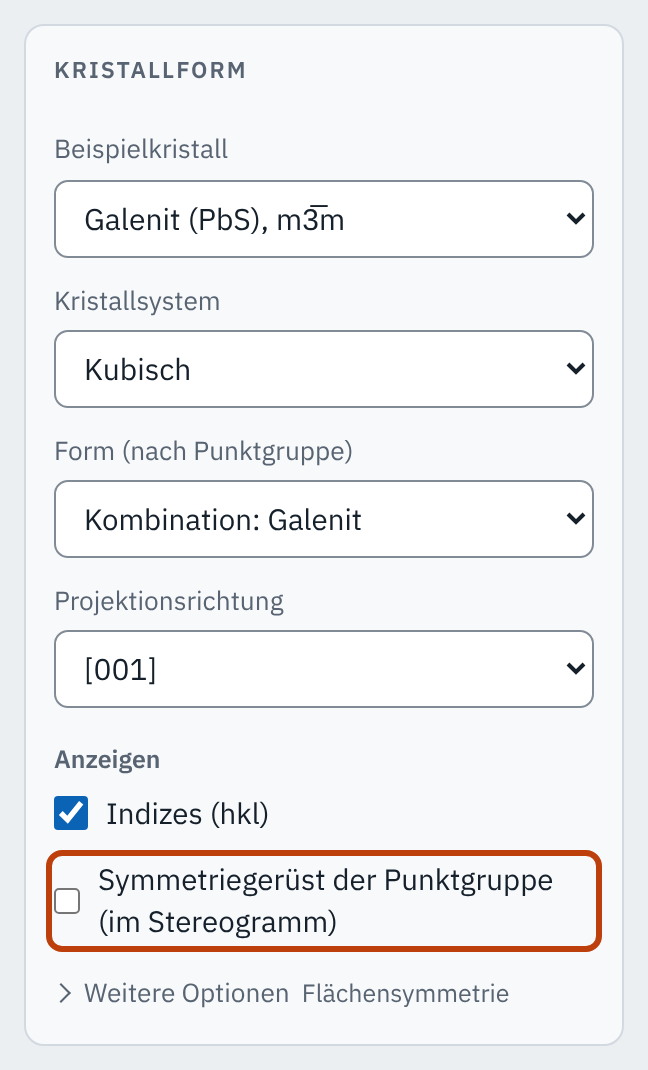
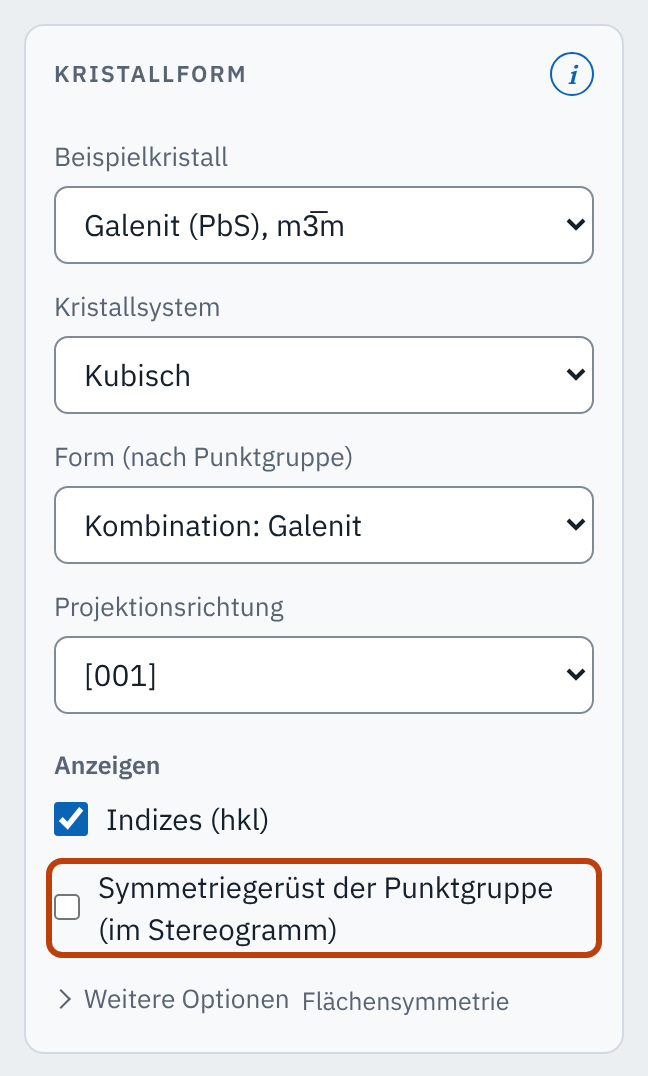
Gemeinsame Grundlage auf crystallography-common v0.20.0
ⓘ auf allen Geräten, nie allein umbrochen (crystallography-common#140);
Leitfaden 5.1 und 5.2 geschärft. Texte der ⓘ-Erklärungen und der
Karte „Erste Schritte“ für Maus und Touch, Bilder der Hilfeseite neu.

Claude-Session: https://claude.ai/code/session_01L8SY96VTcRYuEB7LDLyNSV

diff --git a/lib/common/js/help.js b/lib/common/js/help.js
@@ -1,9 +1,8 @@
-// Hilfen: Tooltips (Laptop: Maus oder Tastaturfokus) und ⓘ-Erklärungen je Abschnitt (Touch-Geräte).
+// Hilfen: Tooltips (Laptop: Maus oder Tastaturfokus) und ⓘ-Erklärungen je Abschnitt (alle Geräte, #140).
 // Die Texte liefert die App (initHelp); hier steht nur die Mechanik. Stile in css/app.css (.tip, .infobtn, .helpbox).
 // Das zuletzt benutzte Zeigegerät steht als `data-zeiger` (maus | touch) an <html>; danach richten sich die Texte für
-// Maus und Touch (.only-fine, .only-coarse). Ein Stift zählt als Touch (kein Tooltip, Texte „antippen“). Nach dem ersten
-// Tippen steht dort zudem `data-touch`, und das ⓘ bleibt sichtbar, auch wenn danach wieder die Maus benutzt wird; meldet
-// der Browser hover: none, ist es immer sichtbar (#114). pruefeTooltips() ist für die Tests der App.
+// Maus und Touch (.only-fine, .only-coarse), auch im ⓘ, und die Grösse des ⓘ (28 px mit der Maus, 40 px mit Touch). Ein Stift zählt als Touch (kein Tooltip,
+// Texte „antippen“). pruefeTooltips() ist für die Tests der App.
 
 import { esc } from './format.js';
 
@@ -194,6 +193,36 @@ function buildHelpBox(sec) {
 }
 
 /**
+ * Hängt das ⓘ an das letzte Wort eines Titels, in einem Element, das nicht umbricht (`.nobr`): Bricht der Titel um,
+ * steht das ⓘ mit dem letzten Wort in der neuen Zeile, nie allein (Bedingung Thomas, #140). Endet der Titel mit einem
+ * Element (z. B. einem Symbol), wird dieses als Ganzes mit dem ⓘ zusammengehalten; der Titel einer `summary` steht
+ * deshalb als Text darin, nicht ganz in einem Element (sonst bräche er nicht mehr um).
+ * @param {HTMLElement} titel
+ * @param {HTMLElement} btn
+ */
+function anheften(titel, btn) {
+  const nobr = document.createElement('span');
+  nobr.className = 'nobr';
+  let letzter = titel.lastChild;
+  // Leerraum und Kommentare am Ende überspringen
+  while (letzter && (letzter.nodeType === Node.COMMENT_NODE || (letzter.nodeType === Node.TEXT_NODE && !letzter.textContent?.trim()))) {
+    const davor = letzter.previousSibling;
+    letzter.remove();
+    letzter = davor;
+  }
+  if (letzter && letzter.nodeType === Node.TEXT_NODE) {
+    const text = /** @type {Text} */ (letzter);
+    const t = text.data.trimEnd();
+    const i = t.search(/\S+$/);
+    text.data = t.slice(0, i);
+    nobr.append(t.slice(i));
+    if (!text.data) text.remove();
+  } else if (letzter) nobr.append(letzter);
+  nobr.append(btn);
+  titel.append(nobr);
+}
+
+/**
  * Tooltips und ⓘ-Erklärungen einrichten.
  * tips: Tooltip-Text (HTML) je Element-ID; bei Eingabefeldern erscheint er an der ganzen Zeile (.check, .range, .field).
  * sections: je Abschnitt { heading: Selektor der Überschrift (h2 oder summary), intro?: Einleitungssatz, ids: [Element-IDs] }.
@@ -215,12 +244,10 @@ export function initHelp({ tips = {}, sections = [], labels = {} } = {}) {
   /** @param {PointerEvent} e */
   const geraet = (e) => {
     maus = e.pointerType === 'mouse';
-    // für CSS (.only-fine, .only-coarse, .infobtn): nur bei einem Wechsel schreiben
+    // für CSS (.only-fine, .only-coarse, Grösse des ⓘ): nur bei einem Wechsel schreiben
     const zeiger = maus ? 'maus' : 'touch';
     const d = document.documentElement.dataset;
     if (d.zeiger !== zeiger) d.zeiger = zeiger;
-    // ⓘ: ab dem ersten Tippen, damit es nicht mit jeder Mausbewegung verschwindet (und eine offene Erklärung mit ihm)
-    if (!maus && d.touch === undefined) d.touch = '';
   };
   document.addEventListener('pointerdown', (e) => { geraet(e); tastatur = false; }, true);
   document.addEventListener('keydown', () => { tastatur = true; }, true);
@@ -247,7 +274,7 @@ export function initHelp({ tips = {}, sections = [], labels = {} } = {}) {
   document.addEventListener('keydown', (e) => { if (e.key === 'Escape') hideTip(); });
   window.addEventListener('scroll', hideTip, true);
 
-  // Touch: ⓘ an den Abschnittsüberschriften klappt die Erklärungen des Abschnitts auf
+  // ⓘ an den Abschnittsüberschriften klappt die Erklärungen des Abschnitts auf (auf allen Geräten, #140)
   for (const sec of sections) {
     const h = document.querySelector(sec.heading);
     if (!h) continue;
@@ -256,6 +283,7 @@ export function initHelp({ tips = {}, sections = [], labels = {} } = {}) {
     btn.className = 'infobtn';
     btn.setAttribute('aria-expanded', 'false');
     btn.setAttribute('aria-label', 'Erklärungen zu diesem Abschnitt');
+    setTip(btn, 'Erklärungen zu diesem Abschnitt ein- und ausklappen.');
     btn.innerHTML = '<span aria-hidden="true">i</span>';
     /** @type {HTMLElement | null} */
     let box = null;
@@ -280,10 +308,15 @@ export function initHelp({ tips = {}, sections = [], labels = {} } = {}) {
       btn.setAttribute('aria-expanded', 'true');
     });
     if (h.tagName === 'SUMMARY') {
+      // Titel (ohne .sumhint) in einem eigenen Element, das ⓘ fest am letzten Wort (#140)
+      const titel = document.createElement('span');
+      titel.className = 'sumtitel';
+      const hinweise = [...h.childNodes].filter((n) => n instanceof Element && n.classList.contains('sumhint'));
+      titel.append(...[...h.childNodes].filter((n) => !hinweise.includes(n)));
+      anheften(titel, btn);
       const label = document.createElement('span');
       label.className = 'sumlabel';
-      label.append(...h.childNodes);
-      label.append(btn);
+      label.append(titel, ...hinweise);
       h.append(label);
     } else h.append(btn);
   }

diff --git a/lib/common/css/app.css b/lib/common/css/app.css
@@ -184,28 +184,34 @@ a.helpbtn { display: inline-grid; place-items: center; text-decoration: none; }
 @media (pointer: coarse) {
   .ablauf-vermutung button { min-height: 40px; }
 }
-/* Hilfen: Tooltip (Laptop), ⓘ-Erklärungen (Touch) */
+/* Hilfen: Tooltip (Laptop), ⓘ-Erklärungen (alle Geräte, #140) */
 .tip {
   position: fixed; z-index: 50; max-width: 320px; padding: 7px 10px; border-radius: 7px; pointer-events: none;
   background: var(--ink); color: var(--paper); font-size: 0.8rem; line-height: 1.4; box-shadow: 0 4px 14px rgb(0 0 0 / 0.22);
 }
 .tip[hidden] { display: none; }
 .tip .ov { text-decoration: overline; }
+/* Trefferfläche mit der Maus 28 px (WCAG 2.5.8: 24 px), auf Touch-Geräten 40 px (Leitfaden 5.2); die negativen
+   Ränder halten die Zeile etwa so hoch wie ohne ⓘ (einige px höher) */
 .infobtn {
-  display: none; place-items: center; flex: none; width: 40px; height: 40px; margin: -10px -8px -10px 2px;
-  padding: 0; border: 0; background: transparent; cursor: pointer; color: var(--accent);
+  display: inline-grid; place-items: center; flex: none; width: 28px; height: 28px; margin: -4px -3px -4px 1px;
+  padding: 0; border: 0; background: transparent; cursor: pointer; color: var(--accent); vertical-align: middle;
 }
 .infobtn span {
   display: grid; place-items: center; width: 22px; height: 22px; border: 1.5px solid currentColor; border-radius: 50%;
   font: italic 600 0.82rem/1 var(--font-display); text-transform: none; letter-spacing: 0;
 }
 .infobtn[aria-expanded="true"] span { background: var(--accent); color: var(--paper); border-color: var(--accent); }
-/* ⓘ auf Touch-Geräten; auch nach dem ersten Tippen auf den Touchscreen eines Laptops, der hover: hover meldet
-   (data-touch, help.js, #114) */
-@media (hover: none) { .infobtn { display: inline-grid; } }
-:root[data-touch] .infobtn { display: inline-grid; }
+@media (pointer: coarse) { .infobtn { width: 40px; height: 40px; margin: -10px -8px -10px 2px; } }
+/* wie .tools button.sym: nach dem Tippen auch auf einem Laptop, der pointer: fine meldet (data-zeiger, help.js) */
+:root[data-zeiger="touch"] .infobtn { width: 40px; height: 40px; margin: -10px -8px -10px 2px; }
+/* und umgekehrt mit der Maus auf einem Gerät, das pointer: coarse meldet (Laptop mit Touchscreen unter Windows) */
+:root[data-zeiger="maus"] .infobtn { width: 28px; height: 28px; margin: -4px -3px -4px 1px; }
+/* ⓘ fest am letzten Wort des Titels (anheften in help.js): bricht nie allein in eine neue Zeile (#140) */
+.nobr { white-space: nowrap; }
 .card h2 { display: flex; align-items: center; justify-content: space-between; }
 .sumlabel { display: inline-flex; align-items: center; }
+.sumtitel { min-width: 0; }
 .helpbox {
   margin: 4px 0 10px; padding: 10px 12px; border-radius: 8px; border: 1px solid color-mix(in srgb, var(--accent) 40%, var(--line));
   background: color-mix(in srgb, var(--accent) 6%, var(--paper)); font-size: 0.84rem; text-transform: none; letter-spacing: 0; font-weight: 400; color: var(--ink);

diff --git a/js/hilfetexte.js b/js/hilfetexte.js
@@ -1,4 +1,4 @@
-// Texte der Hilfen: Tooltips (Laptop) und ⓘ-Erklärungen je Abschnitt (Touch-Geräte).
+// Texte der Hilfen: Tooltips (Laptop) und ⓘ-Erklärungen je Abschnitt (alle Geräte).
 // Die Mechanik steht in lib/common/js/help.js; Begriffe nach Borchardt-Ott & Sowa, Kristallographie (2018).
 
 /** Tooltip-Texte je Element-ID. Bei Eingabefeldern erscheint der Tooltip an der ganzen Zeile. */
@@ -72,7 +72,7 @@ export const SECTIONS = [
   },
   {
     heading: '#ctl-pg > h2',
-    intro: 'Punktgruppe antippen: Das Stereogramm zeigt ihr Symmetriegerüst. Gruppen mit zwei Aufstellungen (z. B. 32) bieten darunter die Wahl der Aufstellung an.',
+    intro: 'Nach der Wahl einer Punktgruppe zeigt das Stereogramm ihr Symmetriegerüst. Gruppen mit zwei Aufstellungen (z. B. 32) bieten darunter die Wahl der Aufstellung an.',
     ids: [],
   },
   {
@@ -82,7 +82,7 @@ export const SECTIONS = [
   },
   {
     heading: '#ctl-poly > h2',
-    intro: 'Pol oder Fläche antippen hebt beide hervor: Jede Fläche hat genau einen Pol. Die Auswahl „Form“ bietet je Punktgruppe die allgemeine Form und die Formen mit der Punktgruppe als Eigensymmetrie an, im trigonalen System auch das trigonale und das hexagonale Prisma (Eigensymmetrie hexagonal); alle Formen mit „Flächensymmetrie zeigen“.',
+    intro: 'Pol oder Fläche anklicken bzw. antippen hebt beide hervor: Jede Fläche hat genau einen Pol. Die Auswahl „Form“ bietet je Punktgruppe die allgemeine Form und die Formen mit der Punktgruppe als Eigensymmetrie an, im trigonalen System auch das trigonale und das hexagonale Prisma (Eigensymmetrie hexagonal); alle Formen mit „Flächensymmetrie zeigen“.',
     ids: ['ex-select', 'sys-select', 'form-select', 'preset-select', 'poly-labels', 'poly-frame', 'poly-bravais', 'poly-facesym'],
   },
   {

diff --git a/index.html b/index.html
@@ -154,7 +154,7 @@
     <section class="card intro" id="intro" aria-labelledby="intro-title" hidden>
       <div class="intro-head"><h2 id="intro-title">Erste Schritte</h2><button class="intro-x" id="intro-close" type="button" aria-label="Erste Schritte schliessen">×</button></div>
       <div id="ablauf"></div>
-      <p class="intro-foot"><span id="intro-quelle-pg">Begriffe nach Borchardt-Ott &amp; Sowa, <i>Kristallographie</i> (2018), Abschn. 5.4, 6, 7.1 und 9. </span><span id="intro-quelle">Begriffe nach Borchardt-Ott &amp; Sowa, <i>Kristallographie</i> (2018), Abschn. 5.4. </span><span class="only-fine">Tooltips erklären jedes Bedienelement.</span><span class="only-coarse">Das ⓘ neben den Überschriften erklärt die Bedienelemente.</span> Diese Schritte und die Experimente stehen auch auf der Hilfeseite („?“ oben).</p>
+      <p class="intro-foot"><span id="intro-quelle-pg">Begriffe nach Borchardt-Ott &amp; Sowa, <i>Kristallographie</i> (2018), Abschn. 5.4, 6, 7.1 und 9. </span><span id="intro-quelle">Begriffe nach Borchardt-Ott &amp; Sowa, <i>Kristallographie</i> (2018), Abschn. 5.4. </span><span class="only-fine">Tooltips und das ⓘ neben den Überschriften erklären die Bedienelemente.</span><span class="only-coarse">Das ⓘ neben den Überschriften erklärt die Bedienelemente.</span> Diese Schritte und die Experimente stehen auch auf der Hilfeseite („?“ oben).</p>
     </section>
     <div class="card">
       <details class="sect" id="sec-experimente">

diff --git a/lib/common/js/version.js b/lib/common/js/version.js
@@ -1,2 +1,2 @@
 // Version von crystallography-common (Semantic Versioning). Gleich in CHANGELOG.md und im Tag vX.Y.Z.
-export const COMMON_VERSION = '0.19.0';
+export const COMMON_VERSION = '0.20.0';

diff --git a/README.md b/README.md
@@ -31,7 +31,7 @@ Teil einer Familie von Lern-Apps mit gemeinsamer Grundlage: [crystallography-com
 - **Verzerrung in zwei Stufen:** Standardmässig sind nur die Gitterparameter frei, die das Kristallsystem zulässt; die Symmetrie bleibt erhalten. Mit „Symmetrie brechen“ sind alle Parameter frei; die App bestimmt dann die verbleibende Punktgruppe und zeigt, in welche Formen die gewählte Form zerfällt (farbig).
 - **Streckung entlang einer Blickrichtung:** Kristall und Gitter entlang einer Blickrichtung des Systems strecken oder stauchen, z. B. den Würfel entlang [111] zum Rhomboeder (m3̄m → 3̄m). Bei trigonaler Restgruppe eines kubischen Kristalls nennt die Infobox die hexagonalen Achsen und die Formen in hexagonalen Indizes.
 - **Blickrichtungen:** Die Symmetrieelemente werden den Positionen des vollen Hermann-Mauguin-Symbols zugeordnet (Klassen äquivalenter Richtungen, z. B. in m3̄m ⟨100⟩, ⟨111⟩, ⟨110⟩) und auf Wunsch in deren Farbe gezeichnet, im Stereogramm, in der 3D-Ansicht, im vollen Symbol und in der nach Blickrichtungen gegliederten Liste der Infobox. In der 3D-Ansicht lassen sich einzelne Blickrichtungen ausblenden. Ohne Farben entspricht das Stereogramm der schwarzen ITA-Darstellung.
-- **Hilfen für den Einstieg:** Karte „Erste Schritte“ je Modus beim ersten Aufruf, Experimente zum Vermuten und Ausprobieren, „?“ führt zur [Hilfeseite](https://manganite.github.io/stereography/hilfe.html) (Erste Schritte als bebilderte Anleitungen, Liste der Experimente), Tooltips am Laptop, ⓘ-Erklärungen je Abschnitt auf Touch-Geräten, Tooltip mit (hkl), ρ und φ über jedem Flächenpol. Selten gebrauchte Optionen liegen in zugeklappten Abschnitten.
+- **Hilfen für den Einstieg:** Karte „Erste Schritte“ je Modus beim ersten Aufruf, Experimente zum Vermuten und Ausprobieren, „?“ führt zur [Hilfeseite](https://manganite.github.io/stereography/hilfe.html) (Erste Schritte als bebilderte Anleitungen, Liste der Experimente), Tooltips am Laptop, ⓘ-Erklärungen je Abschnitt (auf allen Geräten), Tooltip mit (hkl), ρ und φ über jedem Flächenpol. Selten gebrauchte Optionen liegen in zugeklappten Abschnitten.
 - **3D-Konstruktion,** gekoppelt an das Stereogramm: Umkugel, Flächennormalen, Projektionsstrahlen zum Süd- bzw. Nordpol und das Stereogramm in der Äquatorebene.
 
 ## Nutzung

diff --git a/CHANGELOG.md b/CHANGELOG.md
@@ -6,6 +6,10 @@ Das Format folgt [Keep a Changelog](https://keepachangelog.com/de/1.1.0/), die V
 
 ## [Unreleased]
 
+### Geändert
+
+- **Gemeinsame Grundlage** auf crystallography-common v0.20.0: Das ⓘ an den Überschriften erscheint auf allen Geräten, auch mit der Maus (crystallography-common#140), und bricht nie allein in eine neue Zeile (vorher unter „Symmetrie und allgemeine Lage“); mit der Maus ist seine Trefferfläche 28 px. Leitfaden 5.1 (Erklärabläufe, Zoom und Übergänge zwischen Modi gehören in die Tafel) und 5.2 (Grund unter einem gesperrten Element in einem Halbsatz). Texte der ⓘ-Erklärungen und der Karte „Erste Schritte“ passen jetzt für Maus und Touch.
+
 ## [1.16.0] - 2026-11-12
 
 Seitenleiste und Tafel neu geordnet: Werkzeuge „Zone“ und „Winkel“ als Symbol im Kopf der Tafeln, Anleitungstexte im ⓘ, in Tooltip und Legende, „Kristallformen“ passt am Laptop auf einen Bildschirm; Export als Knopf mit Menü; gemeinsame Grundlage v0.19.0. Link-Adressen und Speicher bleiben gültig.
